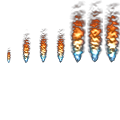
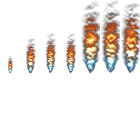
Asteroids ready

diff --git a/Examples/Asteroids/Ship.js b/Examples/Asteroids/Ship.js
@@ -61,9 +61,25 @@ Asteroids.Ship = atom.Class({
 		});
 	},
 
+	  moveAction: null,
+	rotateAction: null,
+
 	update: function (time) {
 		if (!this.isReady()) return;
 		
+		var fire = function (type, start) {
+			if (start) {
+				this.getFireAnimation(type)
+					.stop(1)
+					.run('start')
+					.run('moving');
+			} else {
+				this.getFireAnimation(type)
+					.stop(1)
+					.run('end');
+			}
+		}.context(this);
+
 		var key = this.libcanvas.getKey.context(this.libcanvas);
 
 		// Weapon reloading
@@ -73,17 +89,43 @@ Asteroids.Ship = atom.Class({
 		// Rotation
 		if (key('aleft') || key('aright')) {
 			this.rotate(this.rotateSpeed * time, key('aleft'));
+
+			var newRotateAction = key('aleft') ? 'left' : 'right';
+			if (this.rotateAction != newRotateAction) {
+				// changing direction without stopping the ship
+				this.rotateAction && fire(this.rotateAction, 0);
+				fire(newRotateAction, 1);
+			}
+			this.rotateAction = newRotateAction;
+		} else {
+			this.rotateAction && fire(this.rotateAction, 0);
+			this.rotateAction = null;
 		}
+
 		// Move
 		if (key('aup') || key('adown')) {
 			this.velocity.move(this.getVelocity().mul(time), key('adown'));
+
+			var newMoveAction = key('aup') ? 'forward' : 'back';
+			if (this.moveAction != newMoveAction) {
+				// changing direction without stoping the ship
+				this.moveAction && fire(this.moveAction, 0);
+				fire(newMoveAction, 1);
+			}
+			this.moveAction = newMoveAction;
+		} else {
+			this.moveAction && fire(this.moveAction, 0);
+			this.moveAction = null;
 		}
+
 		this.impulse(this.velocity).checkBounds();
 		this.velocity.mul(this.friction);
 	},
 
 	draw: function () {
 		if (this.hidden) return;
+
+		this.drawEngines();
 
 		this.libcanvas.ctx.drawImage({
 			image : this.animation.getSprite(),
@@ -161,6 +203,127 @@ Asteroids.Ship = atom.Class({
 		return new Asteroids.Bullet(this.getWeaponPosition(), this.angle);
 	},
 
+
+	/********************************
+	 * engines fire animation
+	 */
+
+	enginesShifts: {
+		'mainLeft'  : { x: -30 , y: -6 },
+		'mainRight' : { x: -30 , y:  6 },
+		'backLeft'  : { x:  30, y:  10 },
+		'backRight' : { x:  30, y: -10 },
+		'turnLeft'  : { x: -10, y:  30 },
+		'turnRight' : { x: -10, y: -30 },
+	},
+	getEnginePosition : function (type) {
+		return this.position.clone()
+			.move(this.enginesShifts[type])
+			.rotate(this.angle, this.position);
+	},
+	fireAnimation : {},
+	getFireAnimation : function (type) {
+		if (!this.fireAnimation[type]) {
+			var size = (type == 'forward') ? 'Big' : 'Small';
+			this.fireAnimation[type] = this['createFireAnimation' + size]();
+		}
+		return this.fireAnimation[type];
+	},
+	createFireAnimation : function () {
+		var image = this.libcanvas.getImage('fire');
+		return new LibCanvas.Animation()
+			.addSprites({
+				small : image.sprite(  0, 0, 20, 140),
+				med1  : image.sprite( 20, 0, 20, 140),
+				med2  : image.sprite( 40, 0, 20, 140),
+				med3  : image.sprite( 60, 0, 20, 140),
+				big1  : image.sprite( 80, 0, 20, 140),
+				big2  : image.sprite(100, 0, 20, 140),
+				big3  : image.sprite(120, 0, 20, 140)
+			});
+	},
+	createFireAnimationBig : function () {
+		return this.createFireAnimation()
+			.add({
+				name : 'start',
+				line: ['small', 'small', 'med1', 'med2'],
+				delay: 40
+			})
+			.add({
+				name : 'moving',
+				loop : true,
+				line : ['big1', 'big2', 'big3'],
+				delay : 40
+			})
+			.add({
+				name : 'end',
+				line: ['med2', 'med1', 'small', 'small'],
+				delay: 40
+			});
+	},
+	createFireAnimationSmall : function () {
+		return this.createFireAnimation()
+			.add({
+				name : 'start',
+				line : ['small'],
+				delay: 40
+			})
+			.add({
+				name : 'moving',
+				loop : true,
+				line : ['med1', 'med2', 'med3'],
+				delay : 40
+			})
+			.add({
+				name : 'end',
+				line : ['small'],
+				delay: 40
+			});
+	},
+	getEnginesImages : function () {
+		var get = function (type) {
+			return this.getFireAnimation(type).getSprite();
+		}.context(this);
+		
+		return {
+			'mainLeft'  : {
+				image : get('forward'),
+				degree: (270).degree()
+			},
+			'mainRight' : {
+				image : get('forward'),
+				degree: (270).degree()
+			},
+			'turnLeft' : {
+				image : get('left'),
+				degree: -(150).degree()
+			},
+			'turnRight' : {
+				image : get('right'),
+				degree: -(30).degree()
+			},
+			'backLeft' : {
+				image : get('back'),
+				degree: (90).degree()
+			},
+			'backRight' : {
+				image : get('back'),
+				degree: (90).degree()
+			}
+		};
+	},
+	drawEngines: function () {
+		var engines = this.getEnginesImages();
+
+		for (var type in engines) if (engines[type].image) {
+			this.libcanvas.ctx
+				.drawImage({
+					image  : engines[type].image,
+					center : this.getEnginePosition(type),
+					angle  : this.angle + engines[type].degree
+				});
+		}
+	}
 
 });
 
